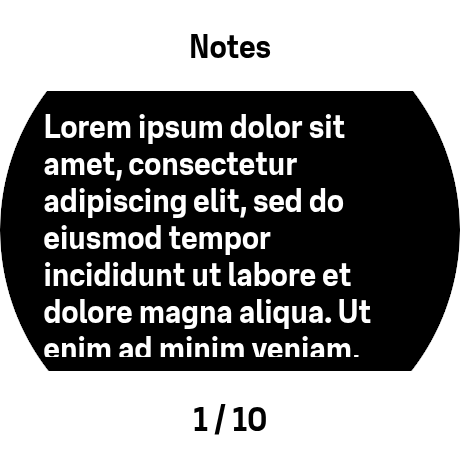
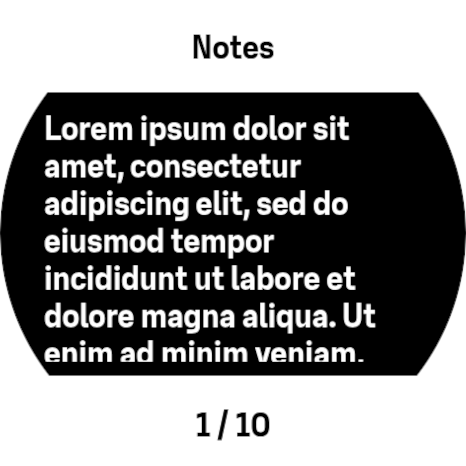
Corrected images sizes

diff --git a/Notes/readme.md b/Notes/readme.md
@@ -13,9 +13,9 @@ When you start an activity and select "Notes" as a SuuntoPlus app, your notes wi
 | Button | Action | 
 | ------  | ------ |
 | UP | Select previous note | 
-| UP-HOLD | Zoom in | 
+| UP (hold) | Zoom in | 
 | DOWN | Select next note | 
-| DOWN-HOLD | Zoom out |
+| DOWN (hold) | Zoom out |
 
 ## Font sizes (Zoom)
 > [!IMPORTANT]
